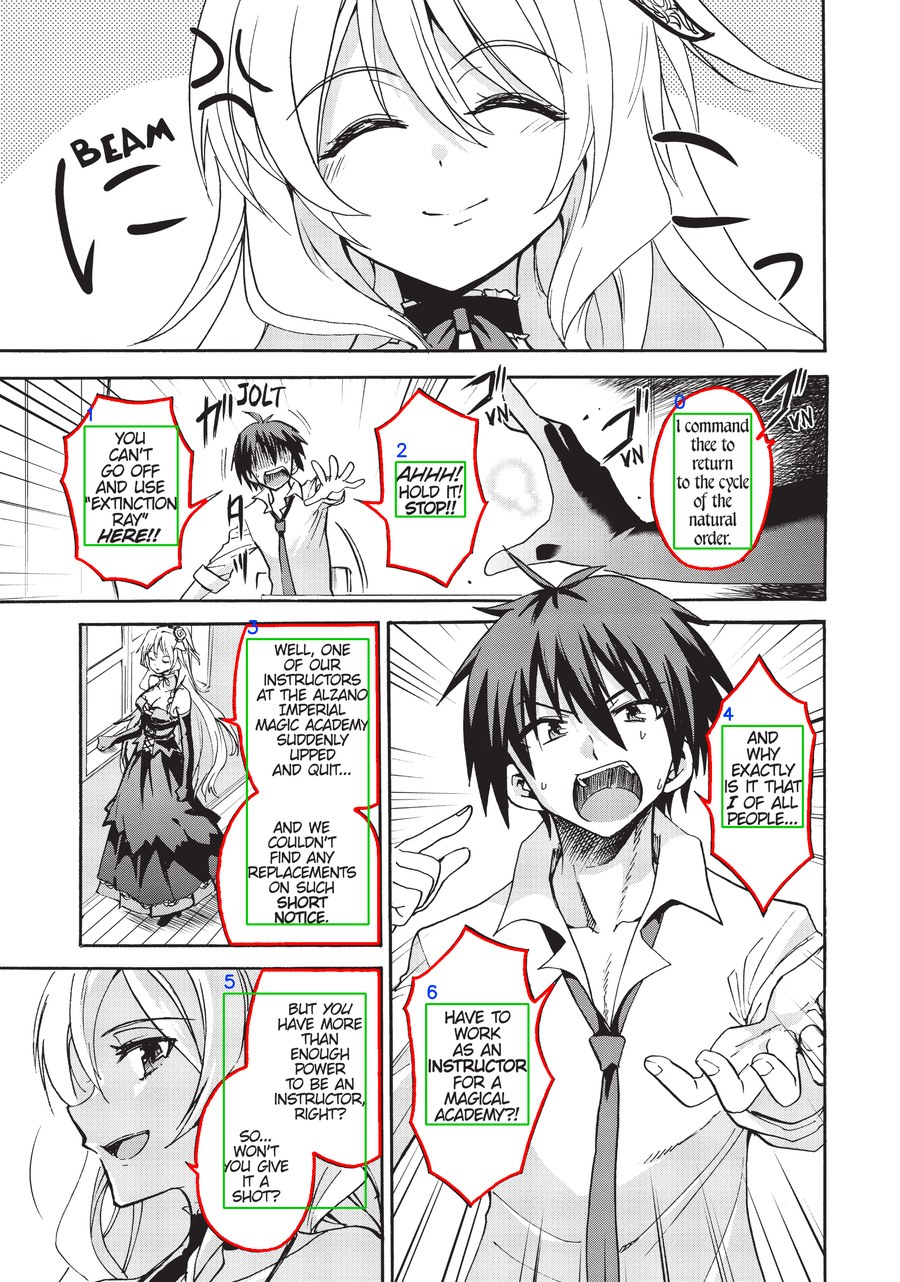
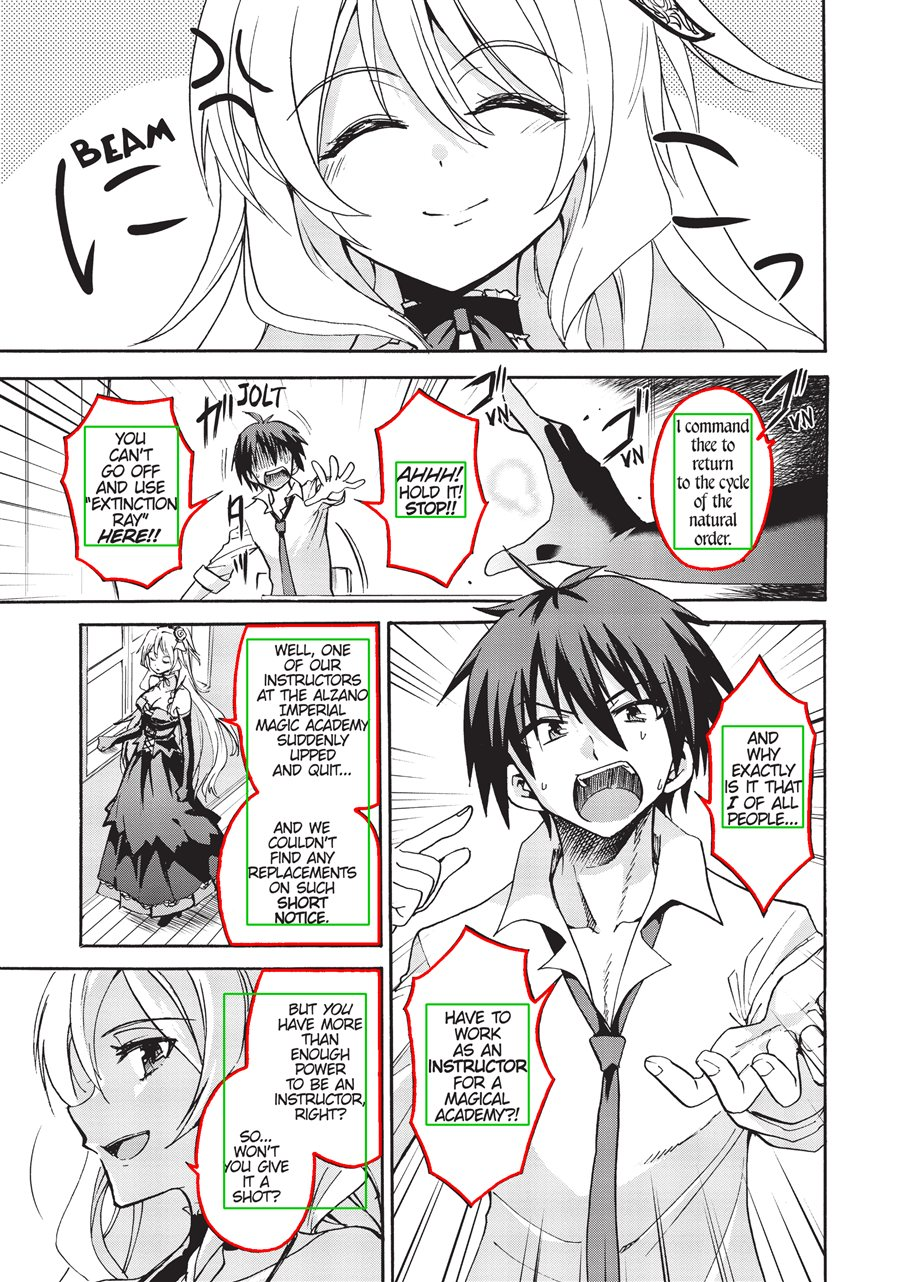
fix(Tests): corrige les apercus de detection et d'ordre de lecture
L'apercu de detection brute affichait des numeros sans le moindre
sens a ce stade (avant tout calcul d'ordre) : ApercuDePlanche gagne un
parametre avecNumeros pour les omettre. L'apercu d'ordre de lecture ne
passait pas par le cadrage avant de trier, et montrait donc encore les
rectangles bruts du detecteur plutot que ceux que l'ordonnanceur voit
vraiment. Images du README regenerees en consequence.

diff --git a/backend/PipelineTests/ApercuDePlanche.cs b/backend/PipelineTests/ApercuDePlanche.cs
@@ -13,10 +13,12 @@ namespace ScanTrad.PipelineTests
     /// presque rien — leur vrai produit est cette image.
     /// <para>
     /// Le numéro posé sur chaque bloc est son rang de lecture dès qu'il est calculé,
-    /// et son rang de détection sinon. Quand toutes les zones portent un rang, le
-    /// chemin qui les relie est tracé par-dessus : c'est ce qui rend un ordre de
-    /// lecture vérifiable d'un coup d'œil, là où une liste de textes demande de
-    /// retrouver soi-même quelle bulle est laquelle.
+    /// et son rang de détection sinon — sauf à demander <c>avecNumeros: false</c>,
+    /// pour un aperçu de détection brute où ce rang n'a encore aucun sens à montrer.
+    /// Quand toutes les zones portent un rang, le chemin qui les relie est tracé
+    /// par-dessus : c'est ce qui rend un ordre de lecture vérifiable d'un coup d'œil,
+    /// là où une liste de textes demande de retrouver soi-même quelle bulle est
+    /// laquelle.
     /// </para>
     /// </remarks>
     public static class ApercuDePlanche
@@ -44,15 +46,19 @@ namespace ScanTrad.PipelineTests
         /// Le nom sous lequel la pièce jointe apparaît dans l'explorateur de tests.
         /// </param>
         /// <param name="planche">La planche à représenter, avec ses zones.</param>
+        /// <param name="avecNumeros">
+        /// Si <c>false</c>, aucun numéro ni chemin n'est dessiné — utile pour un
+        /// aperçu de détection brute, avant que l'ordre de lecture n'ait de sens.
+        /// </param>
         /// <exception cref="ArgumentNullException">
         /// Levée si <paramref name="planche"/> vaut <c>null</c>.
         /// </exception>
         /// <exception cref="ArgumentException">
         /// Levée si l'image de la planche n'est pas décodable.
         /// </exception>
-        public static void Attacher(string nom, Planche planche)
+        public static void Attacher(string nom, Planche planche, bool avecNumeros = true)
         {
-            TestContext.Current.AddAttachment(nom, Dessiner(planche), "image/png");
+            TestContext.Current.AddAttachment(nom, Dessiner(planche, avecNumeros), "image/png");
         }
 
         /// <summary>
@@ -60,6 +66,10 @@ namespace ScanTrad.PipelineTests
         /// son numéro, et le chemin de lecture si les rangs sont connus.
         /// </summary>
         /// <param name="planche">La planche à représenter, avec ses zones.</param>
+        /// <param name="avecNumeros">
+        /// Si <c>false</c>, aucun numéro ni chemin n'est dessiné — utile pour un
+        /// aperçu de détection brute, avant que l'ordre de lecture n'ait de sens.
+        /// </param>
         /// <returns>L'image annotée, encodée en PNG.</returns>
         /// <exception cref="ArgumentNullException">
         /// Levée si <paramref name="planche"/> vaut <c>null</c>.
@@ -67,7 +77,7 @@ namespace ScanTrad.PipelineTests
         /// <exception cref="ArgumentException">
         /// Levée si l'image de la planche n'est pas décodable.
         /// </exception>
-        public static byte[] Dessiner(Planche planche)
+        public static byte[] Dessiner(Planche planche, bool avecNumeros = true)
         {
             if (planche == null)
             {
@@ -82,9 +92,12 @@ namespace ScanTrad.PipelineTests
                     "L'image de la planche n'est pas décodable.", nameof(planche));
             }
 
-            // Le chemin passe dessous : il relie des centres, et les cadres doivent
-            // rester lisibles par-dessus.
-            DessinerLeChemin(dessin, planche.Zones);
+            if (avecNumeros)
+            {
+                // Le chemin passe dessous : il relie des centres, et les cadres
+                // doivent rester lisibles par-dessus.
+                DessinerLeChemin(dessin, planche.Zones);
+            }
 
             for (int rang = 0; rang < planche.Zones.Count; rang++)
             {
@@ -92,7 +105,11 @@ namespace ScanTrad.PipelineTests
 
                 DessinerLaBulle(dessin, zone.Bulle);
                 DessinerLeRectangle(dessin, zone.Rectangle);
-                DessinerLeNumero(dessin, zone.Rectangle, zone.OrdreDeLecture ?? rang);
+
+                if (avecNumeros)
+                {
+                    DessinerLeNumero(dessin, zone.Rectangle, zone.OrdreDeLecture ?? rang);
+                }
             }
 
             return dessin.ImEncode(".png");

diff --git a/backend/PipelineTests/OrdreDeLecture/OrdreSurPlancheReelleTests.cs b/backend/PipelineTests/OrdreDeLecture/OrdreSurPlancheReelleTests.cs
@@ -1,3 +1,4 @@
+using ScanTrad.Pipeline.Cadrage;
 using ScanTrad.Pipeline.Models;
 using ScanTrad.Pipeline.OrdreDeLecture;
 
@@ -10,8 +11,8 @@ namespace ScanTrad.PipelineTests.OrdreDeLecture
     /// <remarks>
     /// La lecture ne se refait pas ici : elle vient de
     /// <see cref="LectureDeLaPlancheDEssai"/>, partagée par toute la collection
-    /// d'intégration. L'ordonnancement, lui, n'est que de la géométrie — il ne coûte
-    /// rien et n'a pas besoin de l'image.
+    /// d'intégration. Le cadrage et l'ordonnancement, eux, ne sont que de la
+    /// géométrie — ils ne coûtent rien et n'ont pas besoin de l'image.
     /// <para>
     /// Chaque cas travaille sur une <see cref="LectureDeLaPlancheDEssai.Copier"/> et
     /// non sur les zones partagées, parce que l'ordonnanceur écrit le rang dans les
@@ -56,9 +57,15 @@ namespace ScanTrad.PipelineTests.OrdreDeLecture
         {
             Planche lue = lecture.Copier(sens);
 
+            // Le cadrage vient avant l'ordre dans le pipeline réel : l'ordonnanceur
+            // trie sur le centre du rectangle, et c'est ce centre que le cadrage peut
+            // déplacer. Le sauter donnerait un aperçu qui ne montre pas ce que
+            // l'ordonnanceur voit vraiment.
+            Planche cadree = new AjusteurDeRectangleParRasterisation().Ajuster(lue);
+
             // Le sens de lecture vient de la planche, pas d'un réglage de
             // l'ordonnanceur : la même instance traite les deux sens.
-            Planche ordonnee = new OrdonnanceurDeZones().Ordonner(lue);
+            Planche ordonnee = new OrdonnanceurDeZones().Ordonner(cadree);
             IReadOnlyList<ZoneDeTexte> ordre = ordonnee.Zones;
 
             Assert.Equal(lue.Zones.Count, ordre.Count);

diff --git a/backend/PipelineTests/Lecture/LectureDePlancheTests.cs b/backend/PipelineTests/Lecture/LectureDePlancheTests.cs
@@ -169,11 +169,12 @@ namespace ScanTrad.PipelineTests.Lecture
         [Fact]
         public void Lecture_AttacheUnApercuDeLaDetection()
         {
-            ApercuDePlanche.Attacher("apercu-detection", lecture.Lue);
+            // Sans numéro ni chemin : l'ordre de lecture n'a pas encore de sens à ce
+            // stade, seul le détecteur a parlé.
+            ApercuDePlanche.Attacher("apercu-detection", lecture.Lue, avecNumeros: false);
 
             sortie.WriteLine(
-                "Aperçu attaché : vert = rectangle du bloc, rouge = contour de la bulle, " +
-                "bleu = rang de détection.");
+                "Aperçu attaché : vert = rectangle du bloc, rouge = contour de la bulle.");
         }
 
         private static bool MemeContour(Bulle une, Bulle autre)

diff --git a/README.md b/README.md
@@ -36,7 +36,7 @@ La planche telle qu'elle arrive, avant tout traitement.
 **2. Détection des blocs**
 
 Vert : rectangle du bloc de texte détecté par le modèle ONNX · rouge : contour
-de la bulle reconstruit · bleu : rang de détection.
+de la bulle reconstruit.
 
 </td>
 </tr>
